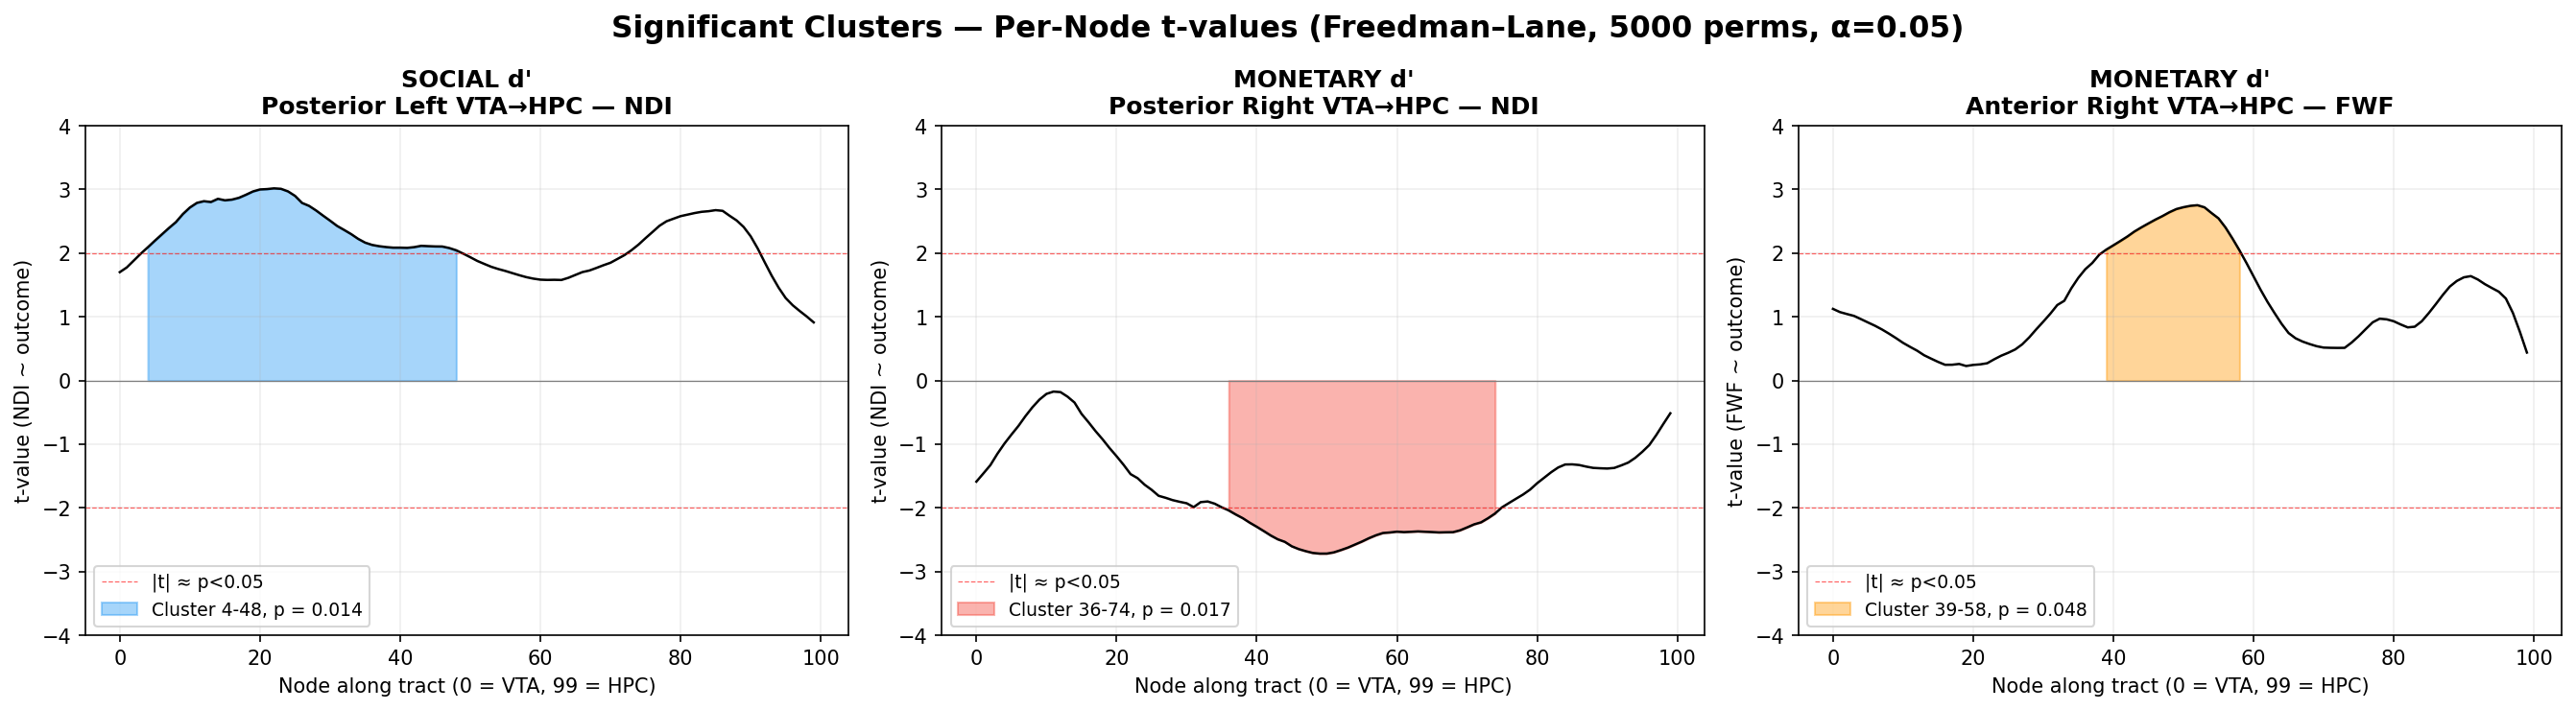
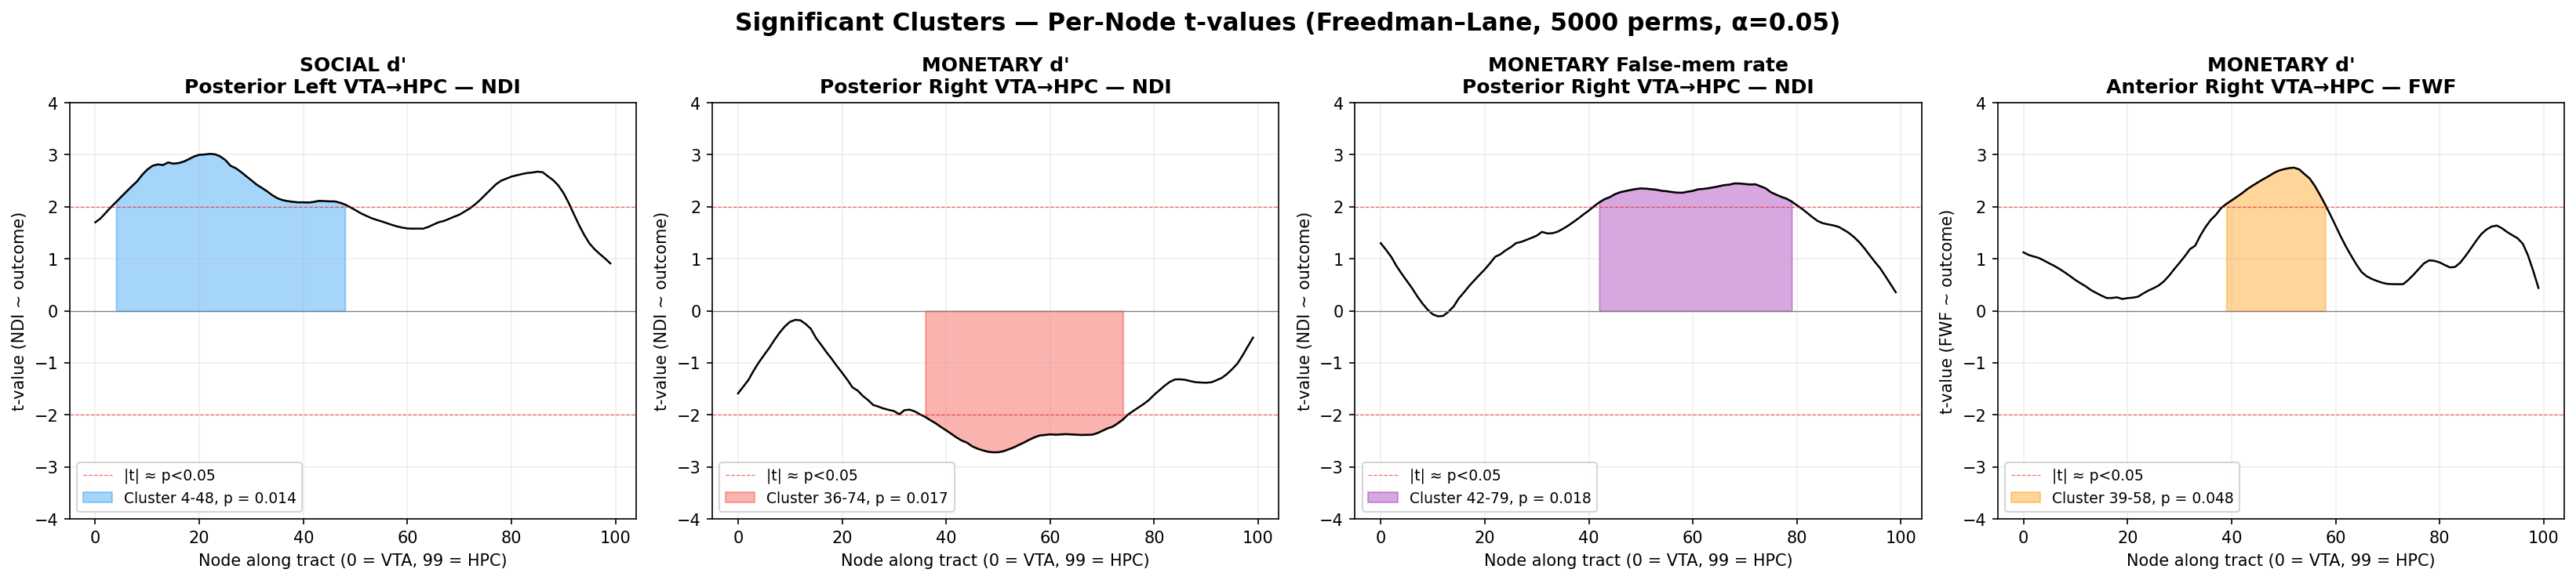
Add 4 memory-rate outcomes: 64 new permutation tests, 1 new FWE hit
Computed per-subject:
  SOCIAL/MONETARY TrueMemRate  = TrueMem / TotalTrials
  SOCIAL/MONETARY FalseMemRate = FalseMem / (TrueMem + FalseMem)

Ran the same Freedman-Lane permutation pipeline on cr2 (xargs -P 64,
1 core per test, 5000 perms), ~45 min wall.

Combined with the original 80 = 144 tests total. One additional cluster
passes FWE correction:

  MONETARY FalseMemRate ~ posterior RIGHT VTA-HPC NDI
    nodes 42-79, p=0.018, positive direction

This overlaps heavily with the existing MONETARY d' negative NDI cluster
on the same tract (nodes 36-74) — same tract, same metric, consistent
direction once reframed: higher NDI -> lower d' AND higher false-alarm
rate, i.e. less precise monetary memory.

README Final Analyses section updated:
- Outcome list expanded 5 -> 9
- Results table now 3 -> 4 hits
- Pipeline section notes the 2-round cr2 execution
- Interpretive notes added re: false-memory mechanism
- Plot extended from 3 -> 4 panels

diff --git a/scripts/build_analysis_csvs.py b/scripts/build_analysis_csvs.py
@@ -43,6 +43,18 @@ TRAUMA_COLS = [
 ]
 MEM_COLS = ["SOCIAL_dprime", "MONETARY_dprime"]
 
+# Memory-rate outcomes derived from raw counts
+# True memory rate  = TrueMem / TotalTrials
+# False memory rate = FalseMem / (TrueMem + FalseMem)
+RAW_MEM_COLS = [
+    "SOCIAL_TrueMem", "SOCIAL_FalseMem", "SOCIAL_TotalTrials",
+    "MONETARY_TrueMem", "MONETARY_FalseMem", "MONETARY_TotalTrials",
+]
+DERIVED_MEM_COLS = [
+    "SOCIAL_TrueMemRate", "SOCIAL_FalseMemRate",
+    "MONETARY_TrueMemRate", "MONETARY_FalseMemRate",
+]
+
 # === Tidy IDs ===
 red = red.rename(columns={"sub_id": "Subject"})
 grp = grp.rename(columns={"ID": "Subject"})
@@ -55,11 +67,19 @@ red_subset = (red_subset.dropna(subset=["Subject"])
                         .first()
                         .reset_index())
 
-grp_subset = grp[["Subject"] + MEM_COLS].copy()
+grp_subset = grp[["Subject"] + MEM_COLS + RAW_MEM_COLS].copy()
 grp_subset = (grp_subset.dropna(subset=["Subject"])
                         .groupby("Subject")
                         .first()
                         .reset_index())
+
+# Derive memory rates per subject
+for cond in ["SOCIAL", "MONETARY"]:
+    true_mem = pd.to_numeric(grp_subset[f"{cond}_TrueMem"], errors="coerce")
+    false_mem = pd.to_numeric(grp_subset[f"{cond}_FalseMem"], errors="coerce")
+    total = pd.to_numeric(grp_subset[f"{cond}_TotalTrials"], errors="coerce")
+    grp_subset[f"{cond}_TrueMemRate"] = true_mem / total
+    grp_subset[f"{cond}_FalseMemRate"] = false_mem / (true_mem + false_mem)
 
 # === Merge demographics + outcomes + imaging covariates ===
 base_df = cov.merge(red_subset, on="Subject", how="left") \
@@ -89,7 +109,7 @@ for tract in TRACTS:
     tract_df = tract_df[[
         "Subject", "absolute_motion", "ICV", "maternal_age",
         "Mean_tckstats", "Count_tckstats",
-        *TRAUMA_COLS, *MEM_COLS
+        *TRAUMA_COLS, *MEM_COLS, *DERIVED_MEM_COLS
     ]]
 
     for metric in METRICS:

diff --git a/scripts/plot_hits.py b/scripts/plot_hits.py
@@ -15,12 +15,15 @@ HITS = [
     {"base": "r_vta_r_hipp__NDI__MONETARY_dprime", "outcome": "MONETARY d'",
      "tract": "Posterior Right VTA→HPC", "metric": "NDI",
      "cluster": "36-74", "p": 0.017, "color": "#F44336"},
+    {"base": "r_vta_r_hipp__NDI__MONETARY_FalseMemRate", "outcome": "MONETARY False-mem rate",
+     "tract": "Posterior Right VTA→HPC", "metric": "NDI",
+     "cluster": "42-79", "p": 0.018, "color": "#9C27B0"},
     {"base": "anterior_r_vta_r_hipp__FWF__MONETARY_dprime", "outcome": "MONETARY d'",
      "tract": "Anterior Right VTA→HPC", "metric": "FWF",
      "cluster": "39-58", "p": 0.048, "color": "#FF9800"},
 ]
 
-fig, axes = plt.subplots(1, 3, figsize=(18, 5))
+fig, axes = plt.subplots(1, 4, figsize=(22, 5))
 fig.suptitle("Significant Clusters — Per-Node t-values (Freedman–Lane, 5000 perms, α=0.05)",
              fontsize=15, fontweight='bold')
 

diff --git a/ReadMe.md b/ReadMe.md
@@ -6028,12 +6028,22 @@ After completing the full microstructure pipeline (Steps 1–30), we ran a compr
 
 For each of our 4 tracts × 4 microstructural metrics, does the metric *along the tract* (100 nodes) predict any of the following 5 outcomes, controlling for imaging + demographic covariates?
 
-**Outcomes (5):**
-1. `SOCIAL_dprime` — social-feedback memory d′ (signal-detection sensitivity)
-2. `MONETARY_dprime` — monetary-feedback memory d′
-3. `ctqsf_adult_totalmaltreatment_pnrscoring` — CTQ-SF total childhood maltreatment
-4. `ctqsf_adult_totalabuse_pnrscoring` — CTQ-SF total abuse
-5. `ctqsf_adult_totalneglect_pnrscoring` — CTQ-SF total neglect
+**Outcomes (9):**
+
+*Memory — d′ from signal detection (original 2 outcomes):*
+1. `SOCIAL_dprime` — social-feedback memory d′
+2. `MONETARY_dprime` — monetary-feedback memory d′ (doors task)
+
+*Memory — derived true / false rates (added on Ranesh's request):*
+3. `SOCIAL_TrueMemRate` = `SOCIAL_TrueMem` / `SOCIAL_TotalTrials` — proportion of items correctly remembered
+4. `SOCIAL_FalseMemRate` = `SOCIAL_FalseMem` / (`SOCIAL_TrueMem` + `SOCIAL_FalseMem`) — false-alarm proportion among items the subject endorsed as "remembered"
+5. `MONETARY_TrueMemRate` = `MONETARY_TrueMem` / `MONETARY_TotalTrials`
+6. `MONETARY_FalseMemRate` = `MONETARY_FalseMem` / (`MONETARY_TrueMem` + `MONETARY_FalseMem`)
+
+*Childhood trauma — CTQ-SF (3 outcomes):*
+7. `ctqsf_adult_totalmaltreatment_pnrscoring` — full CTQ-SF total (range 25–103 in our sample, all 5 subscales)
+8. `ctqsf_adult_totalabuse_pnrscoring` — sum of emo + phys + sex abuse subscales
+9. `ctqsf_adult_totalneglect_pnrscoring` — sum of emo + phys neglect subscales
 
 **Covariates (5):**
 - `ICV` — intracranial volume (FSL `fslstats -V` on each brain mask, pre-computed in `derivatives/ICV/icv_results.csv`)
@@ -6046,17 +6056,20 @@ Per Ranesh's email guidance, handedness was *not* collected in IMPACT (verified 
 
 **Tracts (4):** posterior L/R VTA→HPC + anterior L/R VTA→HPC (cleaned tracts from Step 25).
 **Metrics (4):** FA (DTIFIT), NDI (modulated, from Step 29 AMICO), ODI (modulated), FWF.
-**Total tests:** 5 × 4 × 4 = **80**.
+**Total tests:** 9 × 4 × 4 = **144**.
+
+The 80 original tests (`SOCIAL_dprime`, `MONETARY_dprime`, 3 CTQ outcomes) were run first; the 4 memory-rate outcomes were added afterwards in a second cr2 batch (64 more tests).
 
 ## Final sample sizes (per outcome after listwise deletion)
 
 | Outcome | N |
 |---|---|
-| `SOCIAL_dprime` | 42 |
-| `MONETARY_dprime` | 42 |
+| `SOCIAL_dprime`, `MONETARY_dprime` | 42 |
+| `SOCIAL_TrueMemRate`, `SOCIAL_FalseMemRate` | 42 |
+| `MONETARY_TrueMemRate`, `MONETARY_FalseMemRate` | 42 |
 | All 3 CTQ outcomes | 43 |
 
-(57 total subjects; drops are due to missing CTQ + maternal age in 14 of them.)
+(57 total subjects; drops are due to missing CTQ + maternal age in 14 of them. The 6 memory outcomes lose 1 extra subject relative to the imaging covariates.)
 
 ## Pipeline
 
@@ -6094,15 +6107,15 @@ For each node, the observed t-statistic on `metric_node` is computed. We then ru
 ### 4. Run on cr2 (`155.247.66.164`)
 The default cluster (`cla19097`, 48 cores) was contended by other users (load avg >190). cr2 has **128 cores and was idle** (load 0.01). We bundled all 16 CSVs + the R script + a runner into a tarball, untarred under `/data/scratch/dti_perm/` on cr2, then launched:
 
-```bash
-scripts/run_perm_cr2.sh
-```
+**Round 1 — original 80 tests** (`scripts/run_perm_cr2.sh`): `xargs -P 80` parallel runner, one Rscript per outcome × tract × metric, each on a dedicated core (80 ≤ 128 cores, no contention). Total wall time: ~57 minutes.
 
-This `xargs -P 80` parallel runner fires all 80 tests at once, each Rscript on its own core (80 ≤ 128 cores, no contention). Total wall time: ~57 minutes (each test = 5000 perms × 100 nodes × `lm()` fits on single core). Results were tarred back from `/data/scratch/dti_perm/results/` and unpacked locally.
+**Round 2 — 64 added memory-rate tests** (`scripts/run_perm_cr2_v2.sh`): same pattern with the new analysis CSVs (rebuilt locally with the 4 new outcome columns added, re-uploaded to cr2). `xargs -P 64`, ~45 minutes.
+
+Each test = 5000 Freedman–Lane perms × 100 nodes × `lm()` fits on a single core. Combined results were tarred back from `/data/scratch/dti_perm/results/` and unpacked locally.
 
 ### 5. Summarize + plot
 **Scripts:** `scripts/summarize_perms.py`, `scripts/plot_hits.py`.
-- Compact summary of all 80 → `data/ALL_summaries_compact.csv`
+- Compact summary of all 144 → `data/ALL_summaries_compact.csv`
 - Just the FWE-passing clusters → `data/ALL_SIGNIFICANT_clusters.csv`
 - Per-hit t-value plot → `images/perm_hits.png`
 
@@ -6110,30 +6123,37 @@ This `xargs -P 80` parallel runner fires all 80 tests at once, each Rscript on i
 
 ### Significant clusters (FWE-corrected at cluster level)
 
-3 of 80 tests yielded a cluster passing the permutation-derived extent threshold:
+**4 of 144 tests** yielded a cluster passing the permutation-derived extent threshold:
 
-| Outcome | Tract | Metric | Cluster (nodes) | Size | Direction | Max \|t\| | Cluster p |
-|---|---|---|---|---|---|---|---|
-| SOCIAL d′ | Posterior **Left** VTA→HPC | **NDI** | 4–48 | 45 | **Positive** | 3.02 @ node 22 | **0.014** |
-| MONETARY d′ | Posterior **Right** VTA→HPC | **NDI** | 36–74 | 39 | **Negative** | 2.72 @ node 49 | **0.017** |
-| MONETARY d′ | Anterior **Right** VTA→HPC | **FWF** | 39–58 | 20 | Positive | 2.75 @ node 52 | 0.048 |
+| # | Outcome | Tract | Metric | Cluster (nodes) | Size | Direction | Max \|t\| | Cluster p |
+|---|---|---|---|---|---|---|---|---|
+| 1 | SOCIAL d′ | Posterior **Left** VTA→HPC | **NDI** | 4–48 | 45 | **Positive** | 3.02 @ node 22 | **0.014** |
+| 2 | MONETARY d′ | Posterior **Right** VTA→HPC | **NDI** | 36–74 | 39 | **Negative** | 2.72 @ node 49 | **0.017** |
+| 3 | MONETARY False-memory rate | Posterior **Right** VTA→HPC | **NDI** | 42–79 | 38 | **Positive** | 2.45 @ node 68 | **0.018** |
+| 4 | MONETARY d′ | Anterior **Right** VTA→HPC | **FWF** | 39–58 | 20 | Positive | 2.75 @ node 52 | 0.048 |
 
 ![Permutation hits](images/perm_hits.png)
 
 ### What didn't pass
 
-**No trauma outcome (total maltreatment, abuse, or neglect) produced any cluster surviving FWE correction across any tract/metric.** A few showed nodewise sub-threshold trends (`ALL_summaries_compact.csv`: 8 tests with ≥5 nodewise-significant nodes but the largest contiguous cluster fell below the permutation-derived extent threshold).
+- **No trauma outcome** (full CTQ total, abuse, or neglect) produced any FWE-passing cluster across any tract/metric.
+- **No SOCIAL TrueMemRate, SOCIAL FalseMemRate, or MONETARY TrueMemRate** outcome produced an FWE-passing cluster.
+- **No FA cluster passed correction** across all 36 FA tests (9 outcomes × 4 tracts), though MONETARY FA showed sub-threshold trends on the right hemisphere.
+
+`ALL_summaries_compact.csv` lists 19 tests with ≥5 nodewise-significant nodes that fell below the permutation-derived extent threshold — most concentrated on right-hemisphere MONETARY analyses.
 
 ### Interpretive notes
 
-- **Lateralization splits by reward type.** The social-memory hit is on the LEFT posterior tract; both monetary-memory hits are on the RIGHT (one posterior NDI, one anterior FWF). Worth discussing with Ingrid/Ranesh/Blake — left/right asymmetries in mesolimbic memory-related tracts have been described, and our tracts aren't designed to test lateralization explicitly.
-- **NDI direction flips between social and monetary memory.** Higher NDI in the LEFT posterior tract = better social d′ (positive cluster); higher NDI in the RIGHT posterior tract = WORSE monetary d′ (negative cluster). The negative association is unusual — could be a real dissociation, could be sample-size sensitivity at n=42. Replication / robustness checks warranted.
-- **All hits sit in deep-WM nodes (away from VTA/HPC endpoints).** The SOCIAL cluster spans nodes 4–48, the MONETARY NDI cluster 36–74, the MONETARY FWF cluster 39–58 — these are mostly middle-of-tract regions where partial-volume contamination from gray matter is minimized.
-- **CTQ null is genuine null in this sample**, not a missing-data artifact. N=43 for trauma is fine for cluster-level permutation; we just don't see effects in these specific VTA→HPC tracts.
+- **The posterior right NDI cluster carries a coherent monetary-memory-specificity signal.** Hits #2 and #3 are on the **same tract** (posterior right VTA→HPC), **same metric** (NDI), and the cluster regions **overlap heavily** (36–74 vs. 42–79). Direction is consistent across them once you read it the same way: higher NDI along this tract → lower d′ (#2) AND higher false-alarm rate (#3). Both indicate **less precise monetary memory** with higher neurite density there. This is a *signal-detection-style dissociation* on a single tract.
+- **Lateralization splits by reward type.** The social-memory hit is on the LEFT posterior tract; all monetary hits are on the RIGHT (posterior NDI × 2, anterior FWF). Worth discussing with Ingrid/Ranesh/Blake — left/right asymmetries in mesolimbic memory-related tracts have been described, and our tracts aren't designed to test lateralization explicitly.
+- **NDI direction flips between social and monetary memory.** Higher NDI in the LEFT posterior tract = *better* social d′ (positive cluster); higher NDI in the RIGHT posterior tract = *worse* monetary d′ AND *more* false memories. Could be a real social/monetary dissociation, could be sample-size sensitivity at n=42. Replication / robustness checks warranted.
+- **All hits sit in deep-WM nodes (away from VTA/HPC endpoints).** Cluster centers: node 22 (#1), 49 (#2), 68 (#3), 52 (#4). All comfortably in the deep-WM portion of the tract where partial-volume contamination from gray matter is minimized.
+- **CTQ null is genuine null in this sample.** N=43 for trauma is fine for cluster-level permutation; we just don't see effects in these specific VTA→HPC tracts.
+- **TrueMemRate is null even though d′ is significant.** Suggests the d′ signal is being driven primarily by the *false-alarm* component of d′ rather than the hit rate. Consistent with the FalseMemRate finding (#3) which is specifically about false alarms.
 
 ## Caveats & next steps
 
-- **No multiple-comparison correction across the 80 tests.** Cluster-extent correction is *within* each test only. If we want strict FWE across the family of 80, options include Bonferroni (very conservative for spatially correlated outcomes/metrics), Benjamini-Hochberg FDR on the 80 cluster p-values, or restricting to pre-registered hypothesis-driven contrasts before peeking again. Worth deciding before writing this up formally.
+- **No multiple-comparison correction across the 144 tests.** Cluster-extent correction is *within* each test only. If we want strict FWE across the family of 144, options include Bonferroni (very conservative for spatially correlated outcomes/metrics), Benjamini-Hochberg FDR on the 144 cluster p-values, or restricting to pre-registered hypothesis-driven contrasts. Worth deciding before formal write-up.
 - **Handedness uncontrolled** (not collected — verified across all available data sources).
 - **Trauma analyses use the same sample for 3 outcomes that are not independent** (total = abuse + neglect). When reporting, mention which one is primary.
 - **VTA→striatum control tract is still not run** (Ranesh's accumbens atlas pending). That control would directly test the dopamine-specificity vs memory-network-generality of the social NDI finding.